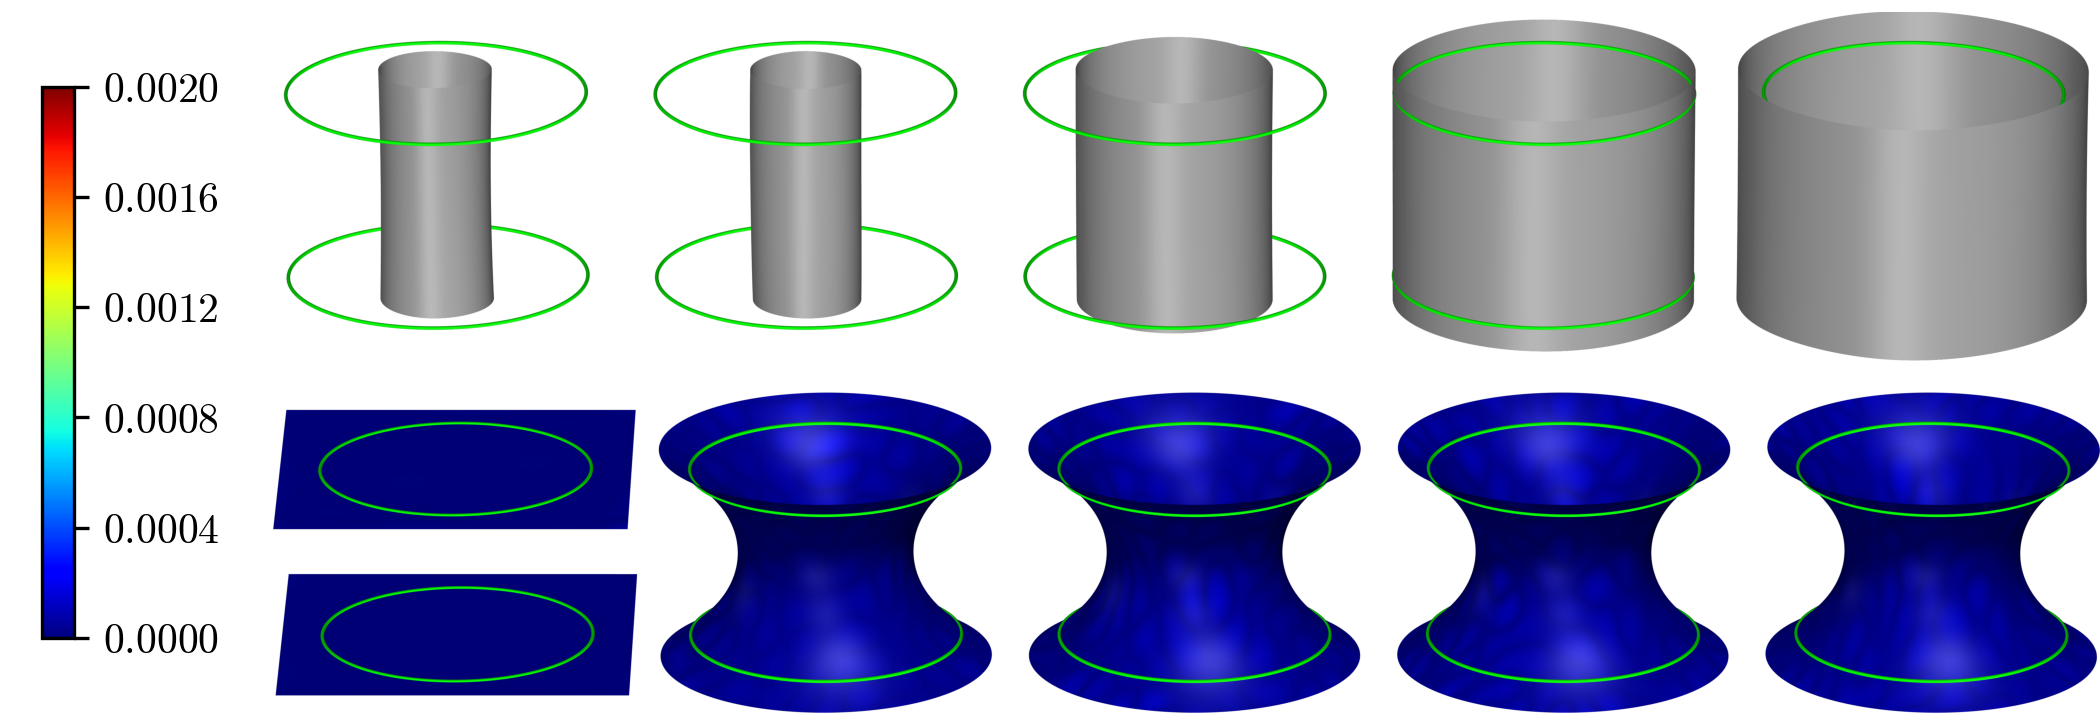
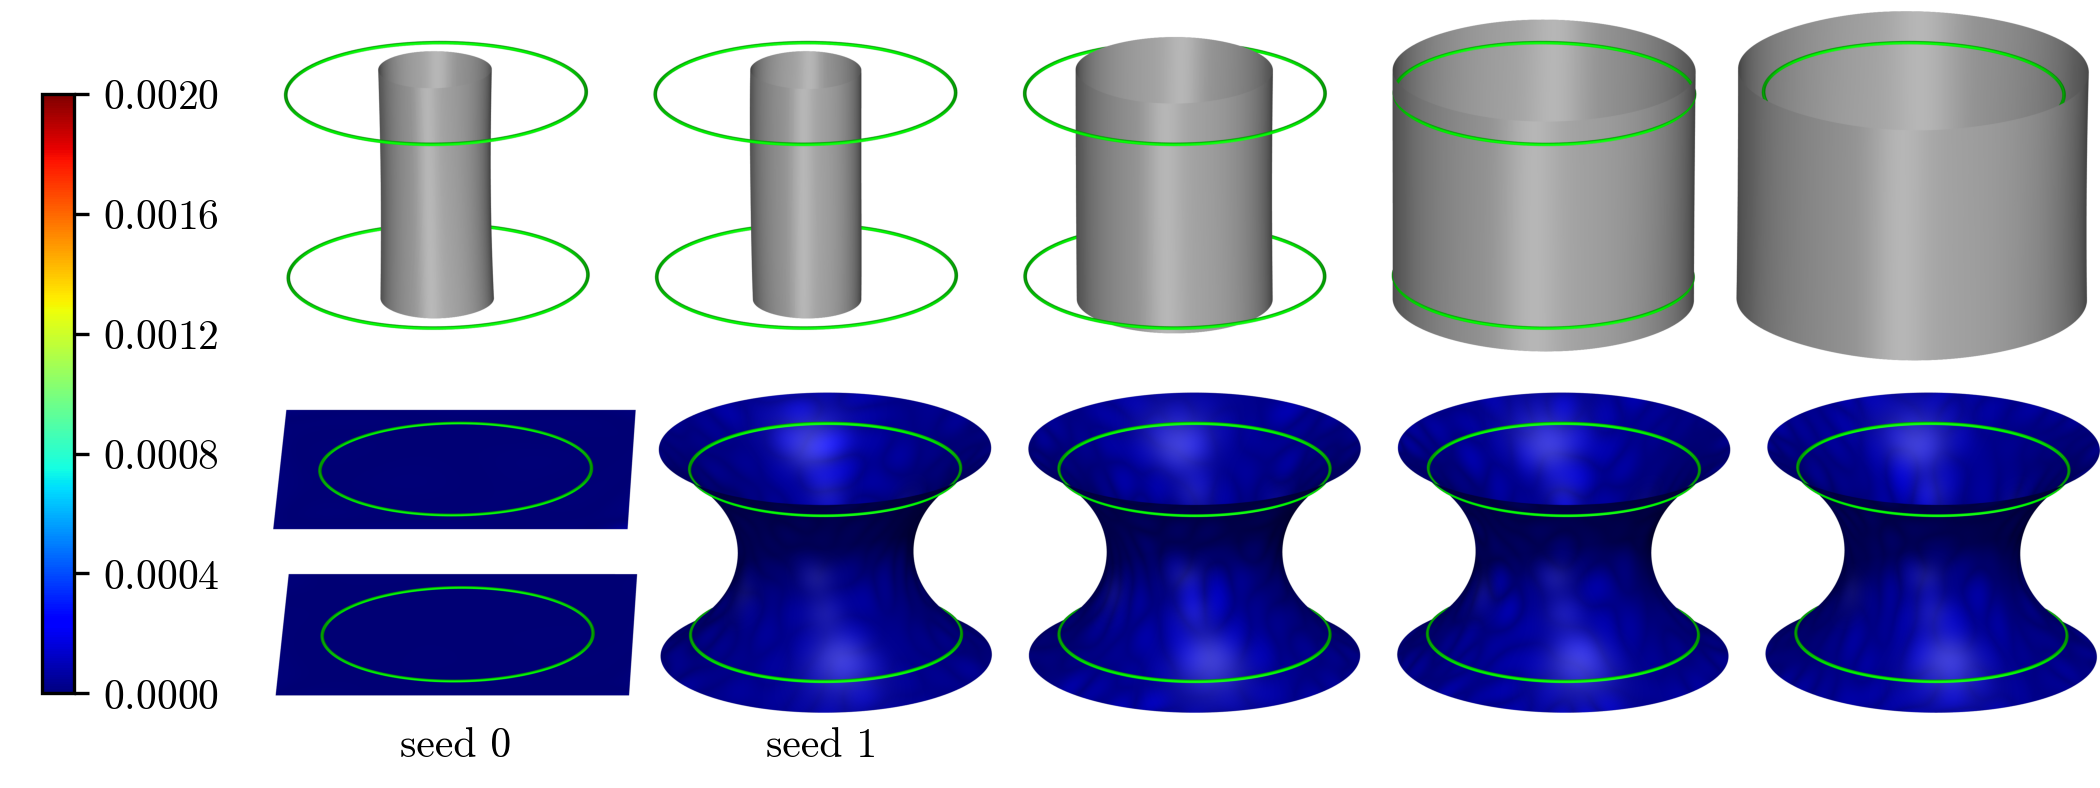
Edit reproduce

diff --git a/experiments/figures.py b/experiments/figures.py
@@ -13,7 +13,8 @@ and the interactive scenes to experiments/results/<task>/<exp>/k3d/:
     heatmap_<opt>.html / surfaces_<opt>.html              one optimizer per file (e.g. for the README)
 With --runs, only the given runs are rendered side by side in the same style, to k3d/<name>.html and k3d/<name>.png
 (e.g. to compare seeds or inspect failures); --paper writes the PNG to paper_figures/<task>_<name>.png instead.
---starts adds a row above with each run's starting shape (its pretrained model, plain gray).
+--starts adds a row above with each run's starting shape (its pretrained model, plain gray); --labels writes a label
+below each column.
 --loss-terms adds weighted loss terms to the loss plot (dashed), e.g. --loss-terms strain for the JEB.
 The PNG of the k3d scene is rendered with headless Chrome via selenium.
 """
@@ -152,20 +153,26 @@ def k3d_screenshot(html_path, width, height, scale=2):
     return img.crop(ImageOps.invert(img).getbbox())
 
 
-def heatmap_figure(img, color_range, paths, width=7.0, ticks=None):
-    """The rendered scene, with a colorbar on the left if color_range is given (Figure 1a)."""
+def heatmap_figure(img, color_range, paths, width=7.0, ticks=None, labels=None):
+    """
+    The rendered scene, with a colorbar on the left if color_range is given (Figure 1a), and optionally a label below
+    each of the side-by-side surfaces (labels: one string per column, "" for none).
+    """
+    margin = 0.08 if labels else 0.0  ## fraction of the figure height below the image for the labels
     with plt.rc_context({"font.family": "serif", "font.serif": ["cmr10"], "axes.formatter.use_mathtext": True}):
         if color_range is None:
-            fig = plt.figure(figsize=(width, width * img.height / img.width))
-            ax_img = fig.add_axes([0, 0, 1, 1])
+            fig = plt.figure(figsize=(width, width * img.height / img.width / (1 - margin)))
+            ax_img = fig.add_axes([0, margin, 1, 1 - margin])
         else:
-            fig = plt.figure(figsize=(width, 0.9 * width * img.height / img.width))
-            ax_img = fig.add_axes([0.13, 0.0, 0.87, 1.0])
+            fig = plt.figure(figsize=(width, 0.9 * width * img.height / img.width / (1 - margin)))
+            ax_img = fig.add_axes([0.13, margin, 0.87, 1.0 - margin])
             ax_cbar = fig.add_axes([0.02, 0.12, 0.015, 0.76])
             fig.colorbar(plt.cm.ScalarMappable(norm=Normalize(*color_range), cmap="jet"), cax=ax_cbar,
                          ticks=np.linspace(*color_range, 6) if ticks is None else ticks)
         ax_img.imshow(img)
         ax_img.axis("off")
+        for i, label in enumerate(labels or []):
+            ax_img.text((i + 0.5) * img.width / len(labels), img.height * 1.02, label, ha="center", va="top", fontsize=10)
         for path in paths:
             fig.savefig(path, dpi=300)
         plt.close(fig)
@@ -182,6 +189,7 @@ if __name__ == "__main__":
     parser.add_argument("--paper", action="store_true", help="--runs: write the PNG to paper_figures/")
     parser.add_argument("--device", default="cuda", help="cpu works too, but the renders take much longer")
     parser.add_argument("--starts", action="store_true", help="--runs: add a row with the starting shapes")
+    parser.add_argument("--labels", nargs="*", help='--runs: a label below each column, e.g. "seed 0" "seed 1" "" ""')
     parser.add_argument("--loss-terms", nargs="*", default=[], help="weighted loss terms to add to the loss plot, e.g. strain")
     args = parser.parse_args()
 
@@ -208,7 +216,7 @@ if __name__ == "__main__":
             stacked.paste(top, ((stacked.width - top.width) // 2, 0))
             stacked.paste(img, ((stacked.width - img.width) // 2, stacked.height - img.height))
             img = stacked
-        heatmap_figure(img, task.heatmap.get("color_range"), [png_path], ticks=task.heatmap.get("ticks"))
+        heatmap_figure(img, task.heatmap.get("color_range"), [png_path], ticks=task.heatmap.get("ticks"), labels=args.labels)
         print(f"{args.name} order (left to right):", ", ".join(args.runs))
         raise SystemExit
     runs = load_runs(exp_dir, [opt + args.suffix for opt in task.figure_opts], args.seed)
